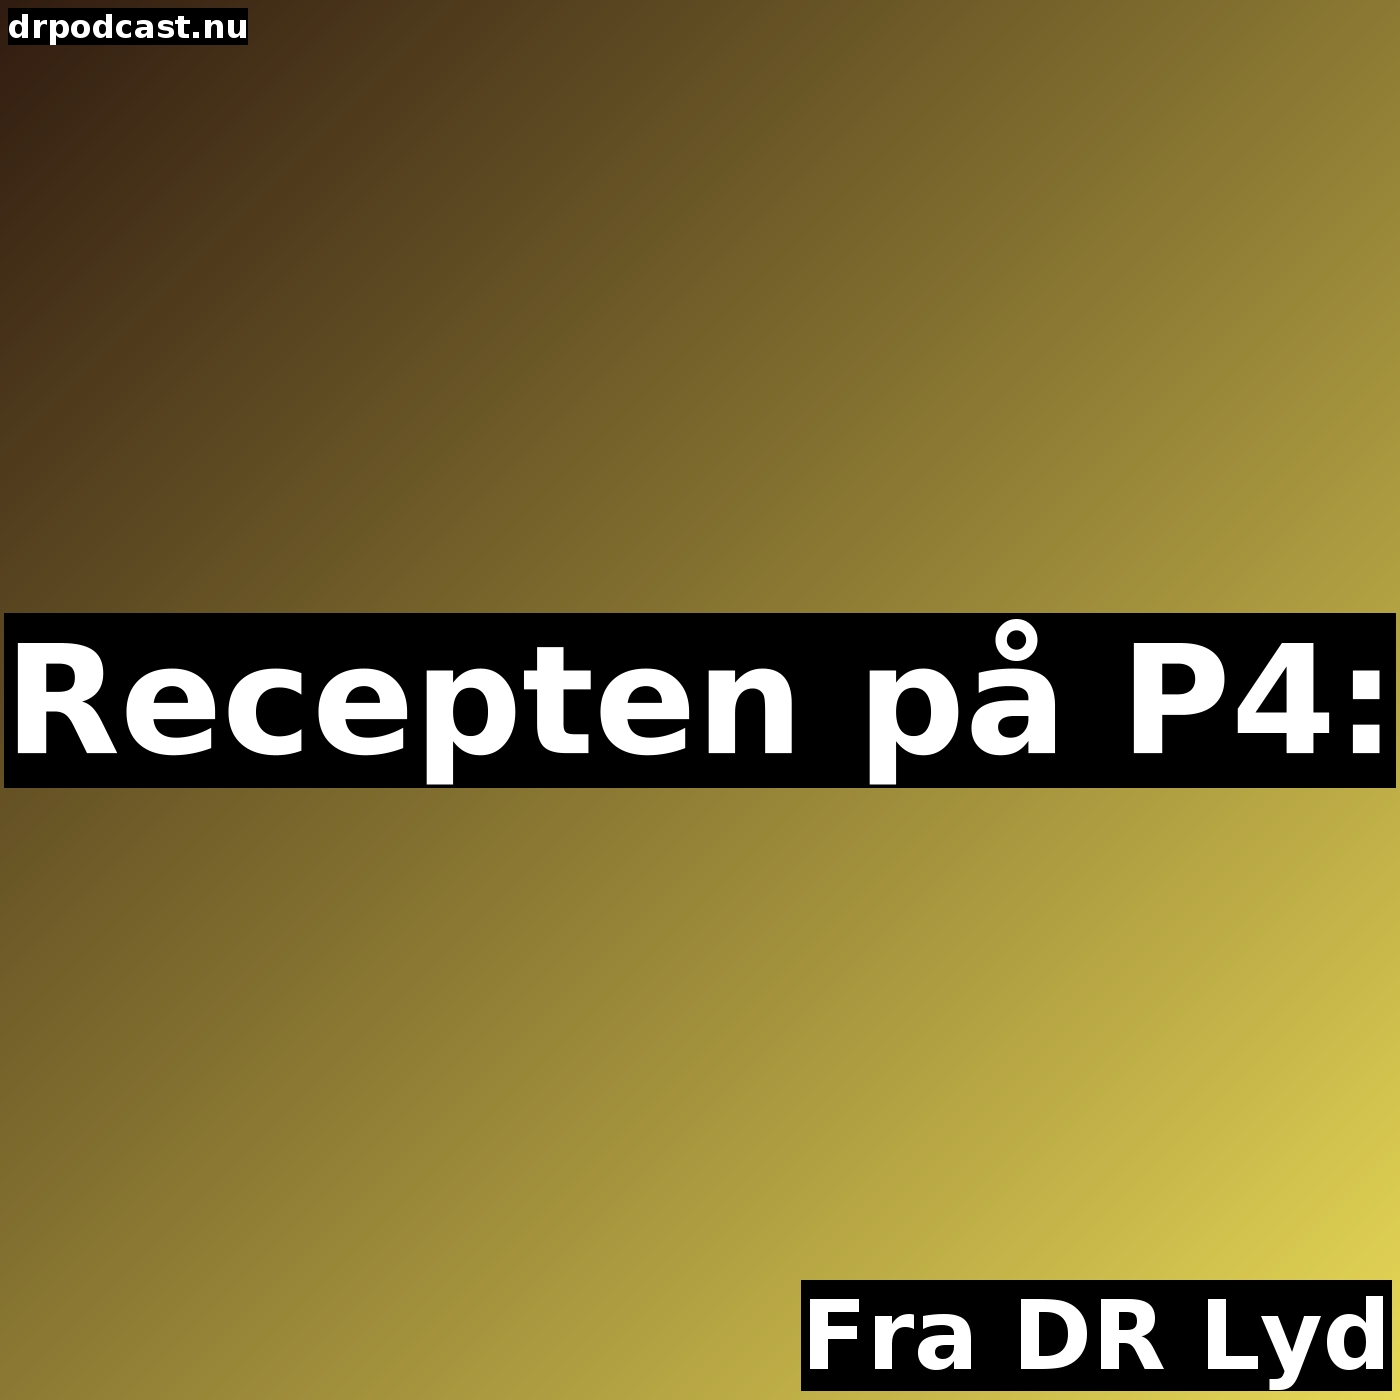
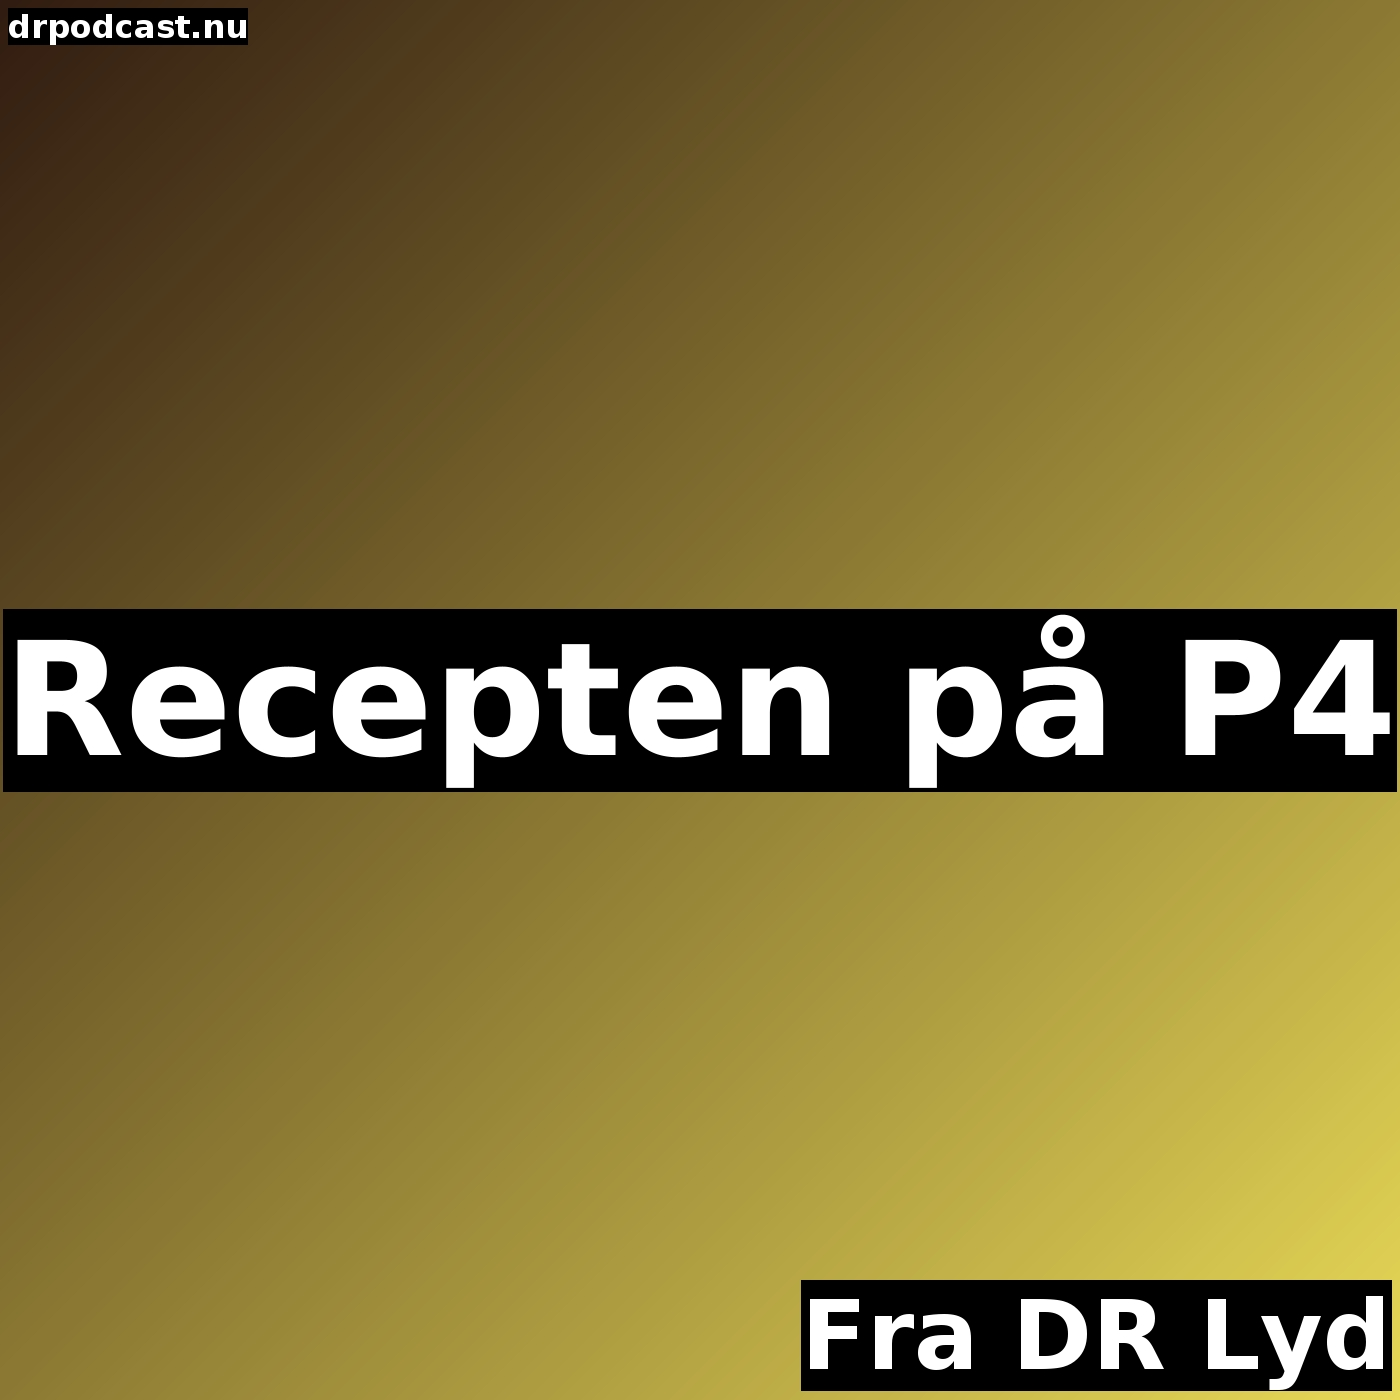
update

Changed region(s): [[0.0, 0.43, 1.0, 0.5836]]

diff --git a/index.html b/index.html
@@ -3233,9 +3233,9 @@
             </a>
             <a href="recepten-paa-p4/feed.xml">
                 <div>
-                    <img class="tile" src="recepten-paa-p4/image.jpg" alt="Recepten på P4:" />
+                    <img class="tile" src="recepten-paa-p4/image.jpg" alt="Recepten på P4" />
                     <br>
-                    <strong>Recepten på P4:</strong>
+                    <strong>Recepten på P4</strong>
                 </div>
             </a>
             <a href="residensen/feed.xml">
